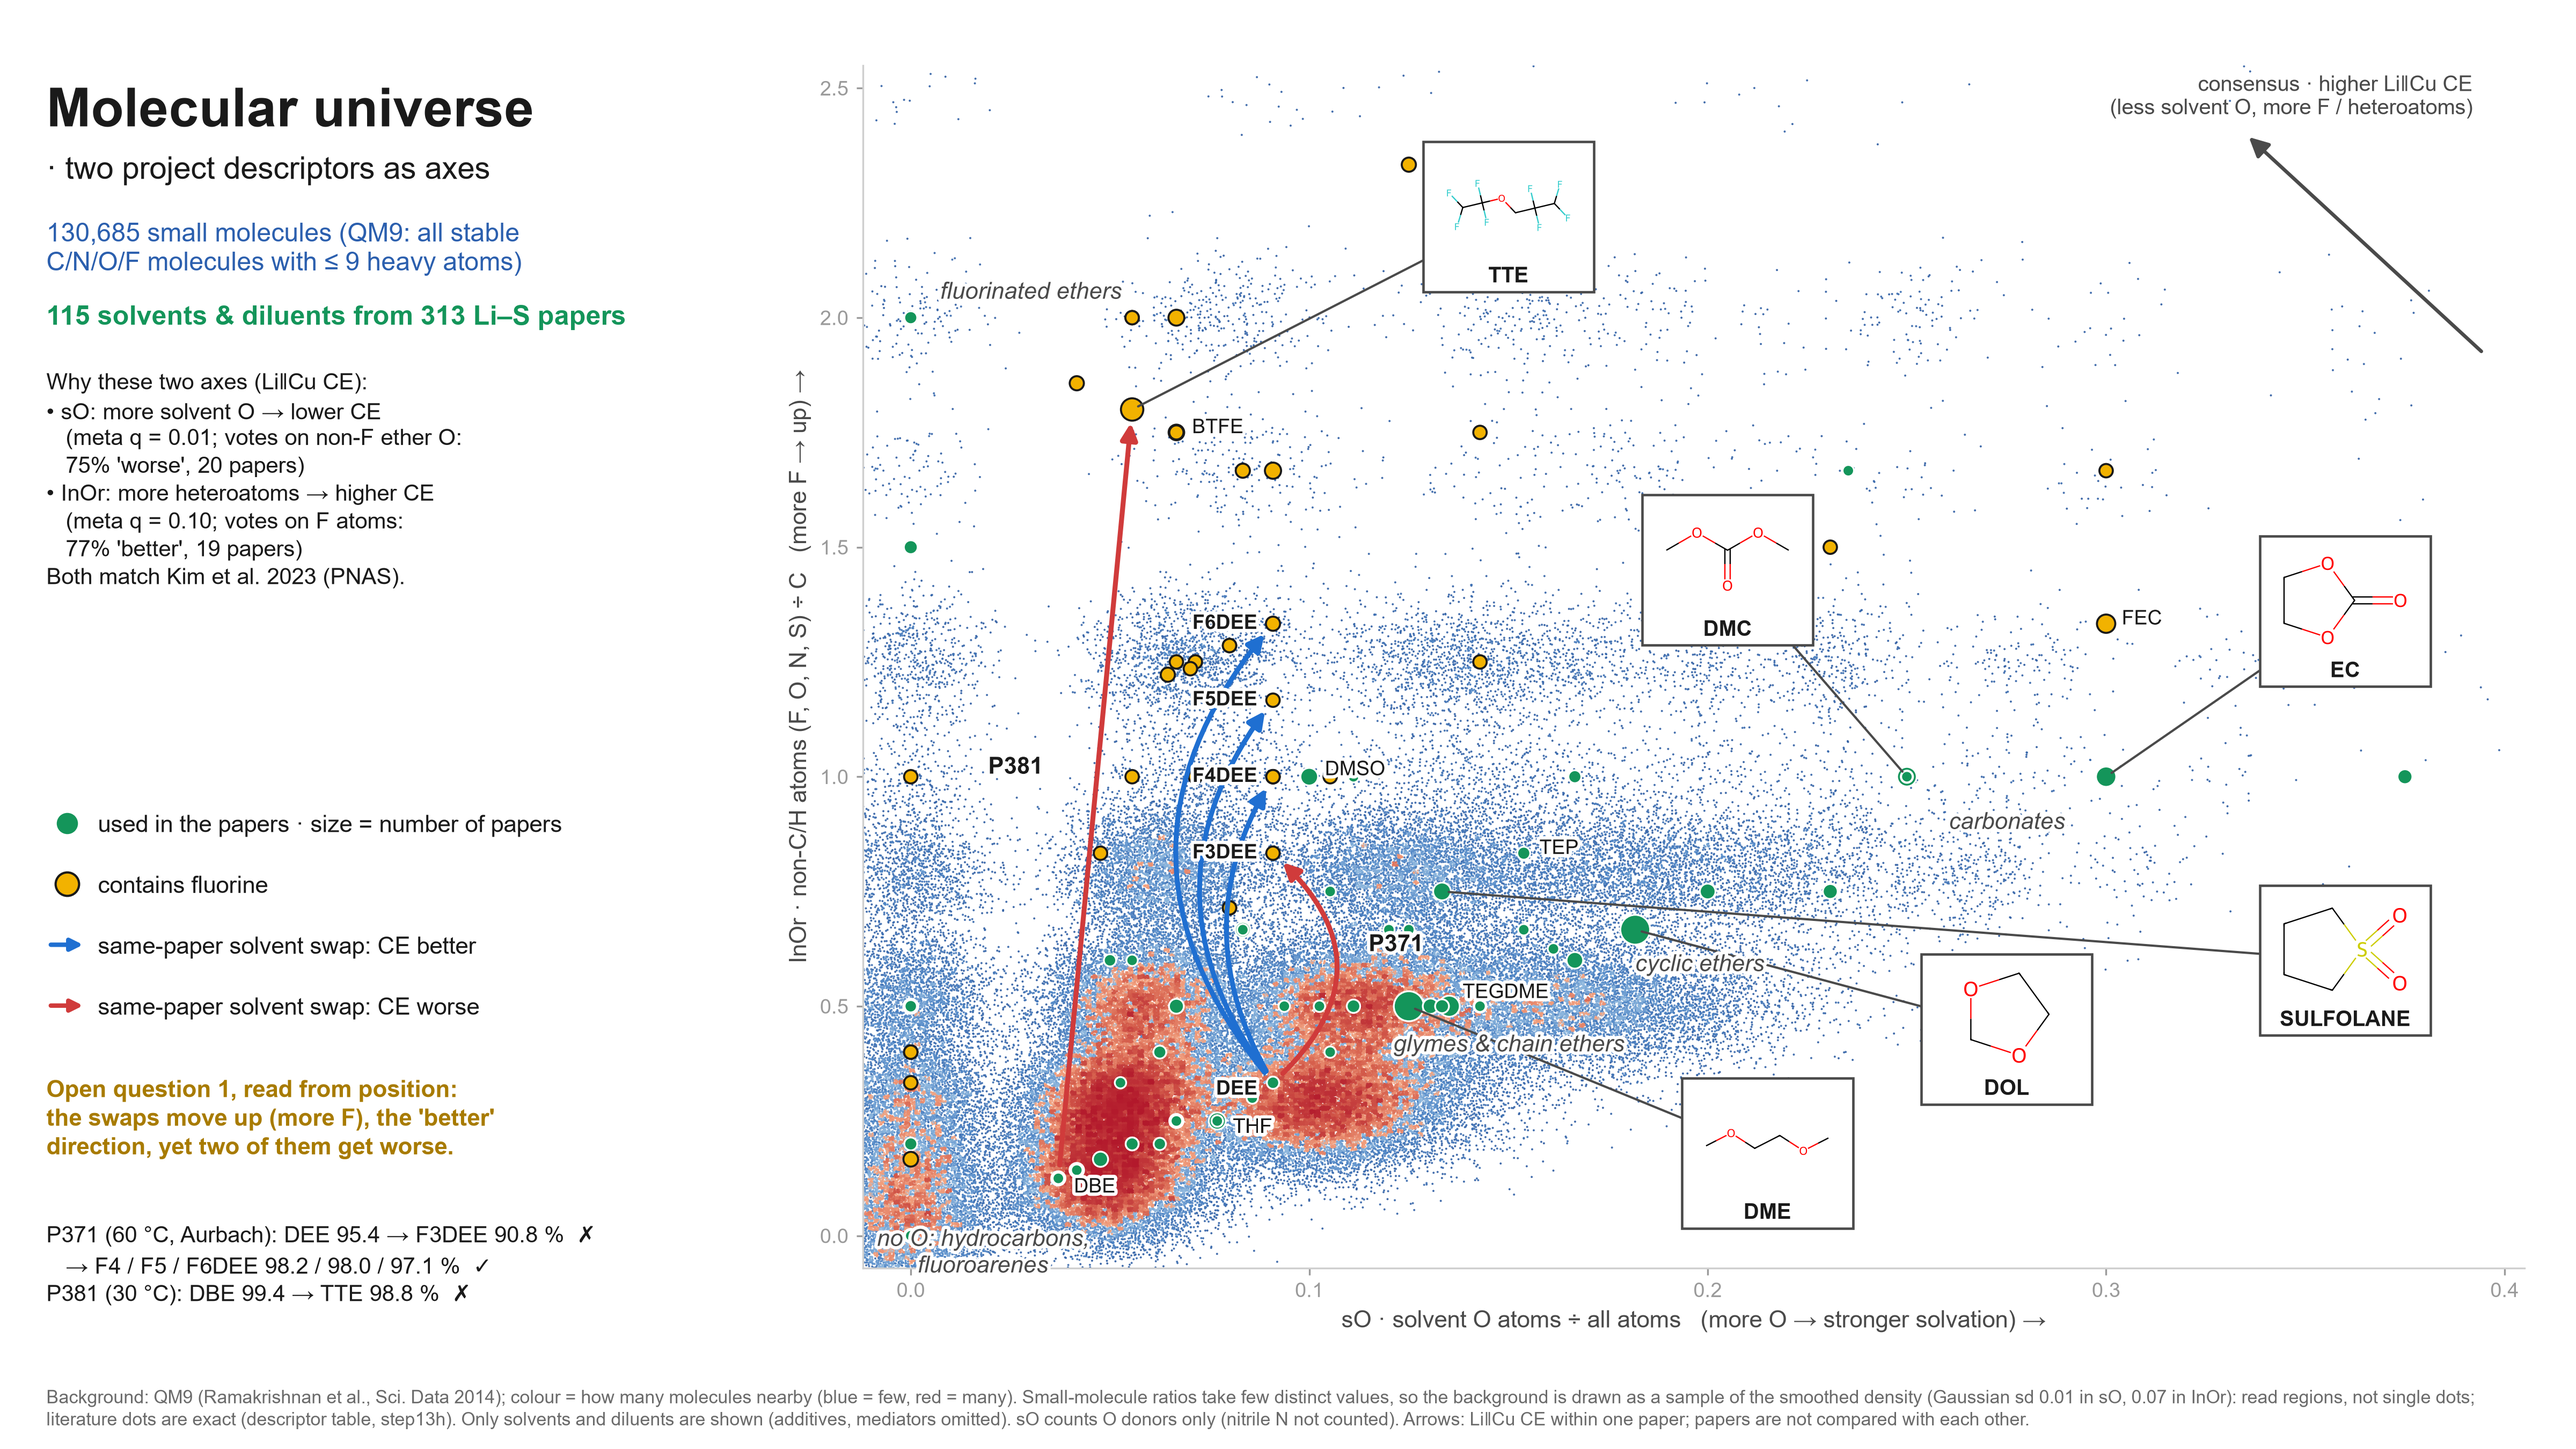
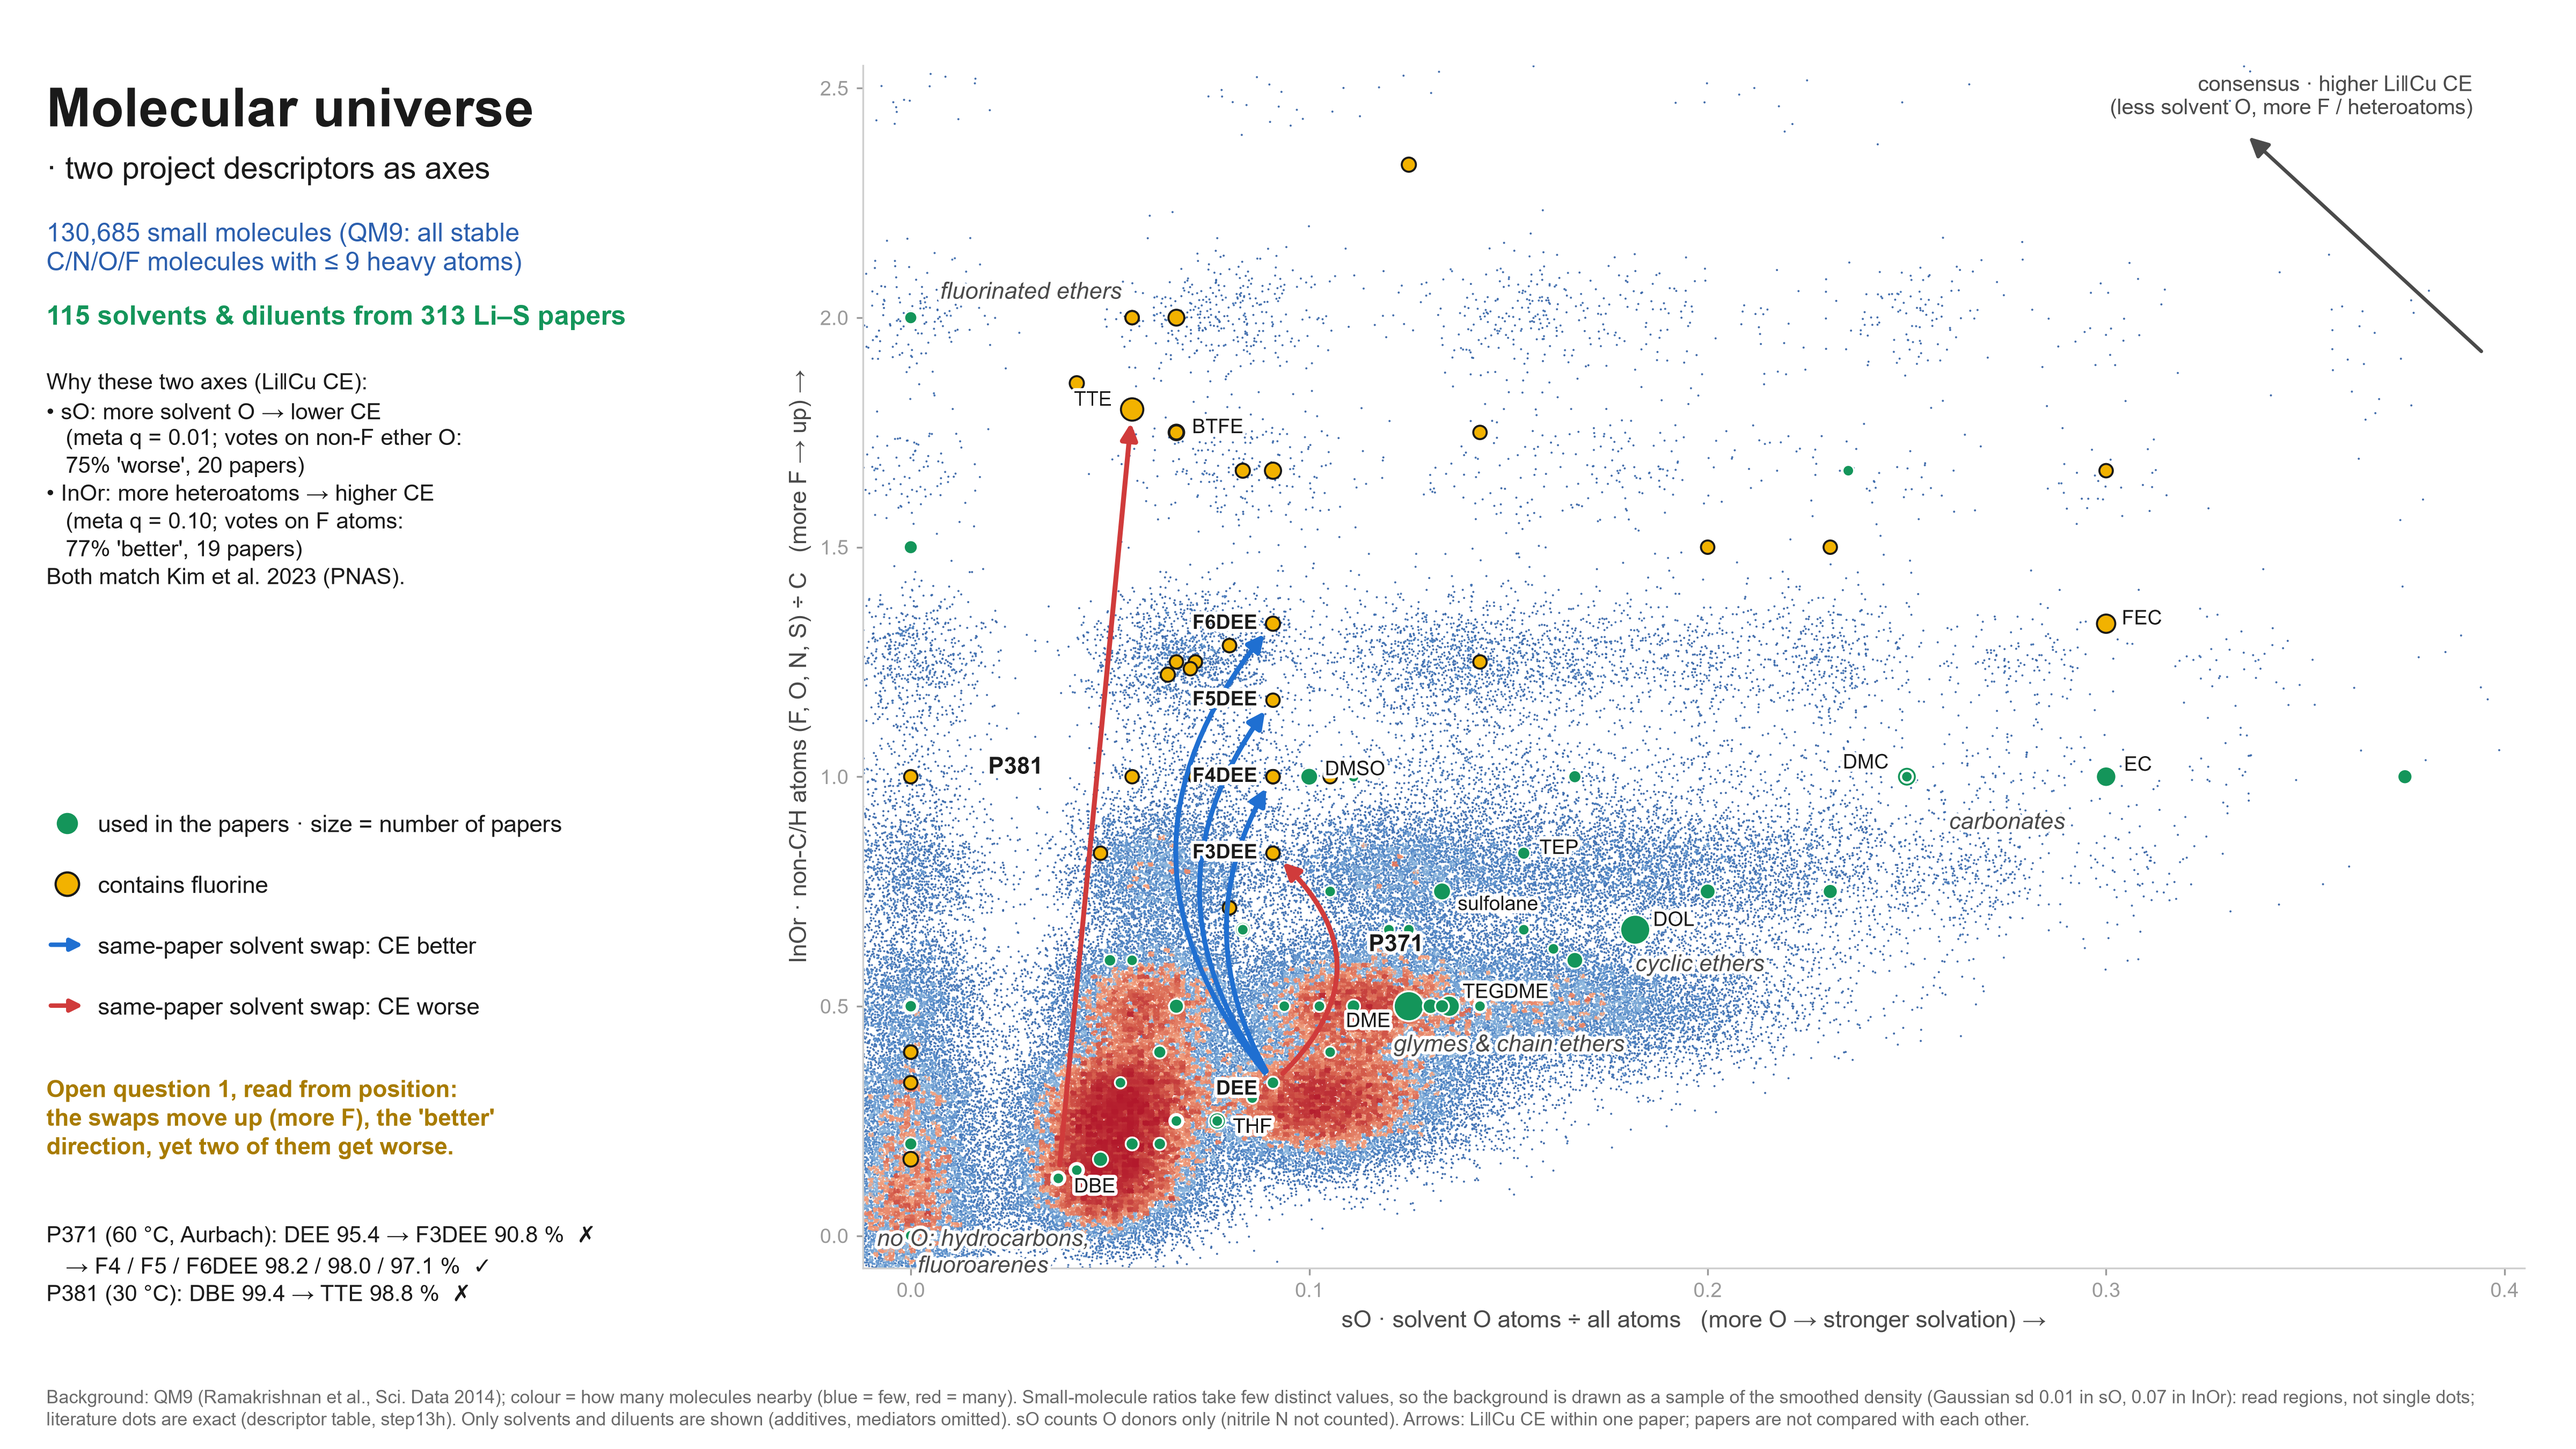
描述符版分子宇宙去掉结构式方框，改文字标签（11-09 用户：描述符版可以不画分子式）

diff --git a/scripts/step25b_descriptor_universe_plot.py b/scripts/step25b_descriptor_universe_plot.py
@@ -46,9 +46,8 @@ GREEN, GOLD, GOLD_TXT, BLUE_TXT = "#14955a", "#f2b200", "#a87b00", "#2b5fae"
 BETTER, WORSE = "#1f6fd1", "#d03b3b"
 XL, YL = (-0.012, 0.405), (-0.07, 2.55)
 JIT = (0.010, 0.070)  # 背景点散开的标准差（sO、InOr）：等于按这个带宽平滑后的密度抽样；只为显示密度
-# 方框结构式：分子 → 方框中心（数据坐标）
-CALLOUTS = {"DME": (0.215, 0.18), "DOL": (0.275, 0.45), "SULFOLANE": (0.36, 0.60), "DMC": (0.205, 1.45), "EC": (0.36, 1.36),
-            "TTE": (0.150, 2.22)}
+# 方框结构式：11-09 用户“描述符版可以不画分子式” → 不画（原版分子宇宙仍画）；这些分子改成文字标签（见 TEXT_ONLY）
+CALLOUTS = {}
 # 区域名（斜体，数据坐标）
 REGIONS = [("glymes & chain ethers", (0.150, 0.415)), ("cyclic ethers", (0.198, 0.59)), ("carbonates", (0.275, 0.905)),
            ("fluorinated ethers", (0.030, 2.06)), ("no O: hydrocarbons,\nfluoroarenes", (0.018, -0.035))]
@@ -56,7 +55,8 @@ REGIONS = [("glymes & chain ethers", (0.150, 0.415)), ("cyclic ethers", (0.198, 
 TEXT_ONLY = {"DEE12": ("DEE", -7, -3, "right"), "F3DEE": ("F3DEE", -7, 0, "right"), "F4DEE": ("F4DEE", -7, 0, "right"),
              "F5DEE": ("F5DEE", -7, 0, "right"), "DTFEG": ("F6DEE", -7, 0, "right"), "DMSO": ("DMSO", 7, 3, "left"), "BTFE": ("BTFE", 7, 2, "left"),
              "DBE": ("DBE", 7, -4, "left"), "TEGDME": ("TEGDME", 6, 6, "left"), "THF": ("THF", 7, -3, "left"), "FEC": ("FEC", 7, 2, "left"),
-             "TEP": ("TEP", 7, 2, "left")}
+             "TEP": ("TEP", 7, 2, "left"), "DME": ("DME", -8, -7, "right"), "DOL": ("DOL", 8, 4, "left"), "SULFOLANE": ("sulfolane", 7, -6, "left"),
+             "DMC": ("DMC", -8, 6, "right"), "EC": ("EC", 8, 5, "left"), "TTE": ("TTE", -9, 4, "right")}
 HALO = [pe.withStroke(linewidth=3, foreground="white")]
 
 
